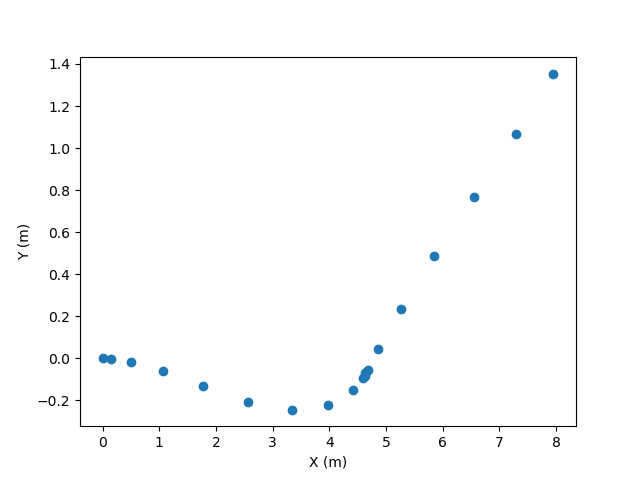
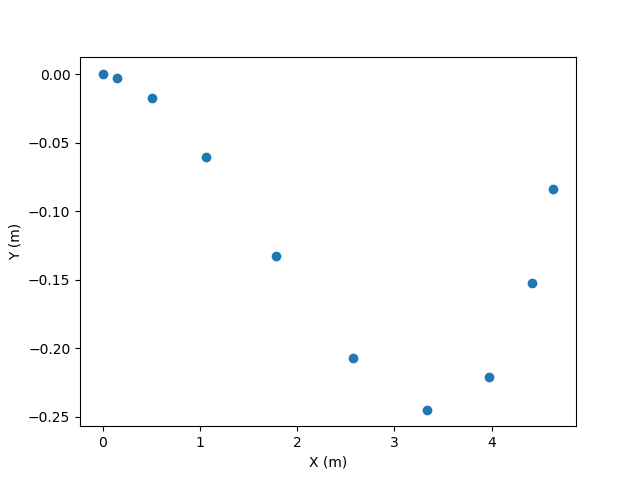
Minor revise torque related

diff --git a/modules/controller.py b/modules/controller.py
@@ -37,8 +37,8 @@ class Kinematic:
 
 
 class NN_Lewis:
-    def __init__(self, dt, gamma1, gamma2, h, k4=1.0, kappa=1.0, coeff_V=0.001, coeff_W=0.001, coeff_F=1.0, coeff_G=1.0,
-                 num_neuron=10):
+    def __init__(self, dt, gamma1, gamma2, h, k4=0.05, kappa=0.01, coeff_V=0.001, coeff_W=0.001, coeff_F=0.1,
+                 coeff_G=0.1, num_neuron=4):
         self.dt = dt
         self.kinematic = Kinematic(gamma1, gamma2, h)
         self.vc = np.zeros(2)
@@ -58,7 +58,7 @@ class NN_Lewis:
     def neural_network(self, nn_input, ec):
         # Tuning NN weights
         sigma = activation_sigmoid(self.V.transpose() @ nn_input)
-        sigma_prime = np.diag(sigma) @ (np.eye(self.num_neuron) - sigma)
+        sigma_prime = np.diag(sigma) @ (np.eye(self.num_neuron) - np.diag(sigma))
         W_dot = np.outer(self.F @ sigma, ec) - np.outer(self.F @ sigma_prime @ self.V.transpose() @ nn_input,
                                                         ec) - self.kappa * np.linalg.norm(ec) * self.F @ self.W
         V_dot = np.outer(self.G @ nn_input, (sigma_prime.transpose() @ self.W @ ec)) - self.kappa * np.linalg.norm(

diff --git a/04_MR_Torque_sim.py b/04_MR_Torque_sim.py
@@ -64,7 +64,7 @@ v_lin_sol = sym.dsolve(eq1, v_lin(t))
 # Initialization for Simulation
 q = np.zeros(3)
 v_present = np.zeros(2)
-time_sequence = np.arange(0.0, 10.0, dt)
+time_sequence = np.arange(0.0, 5.0, dt)
 num_iteration = len(time_sequence)
 torque_right_data = 0.03 * np.sin(time_sequence)
 torque_left_data = 0.03 * np.cos(time_sequence)
